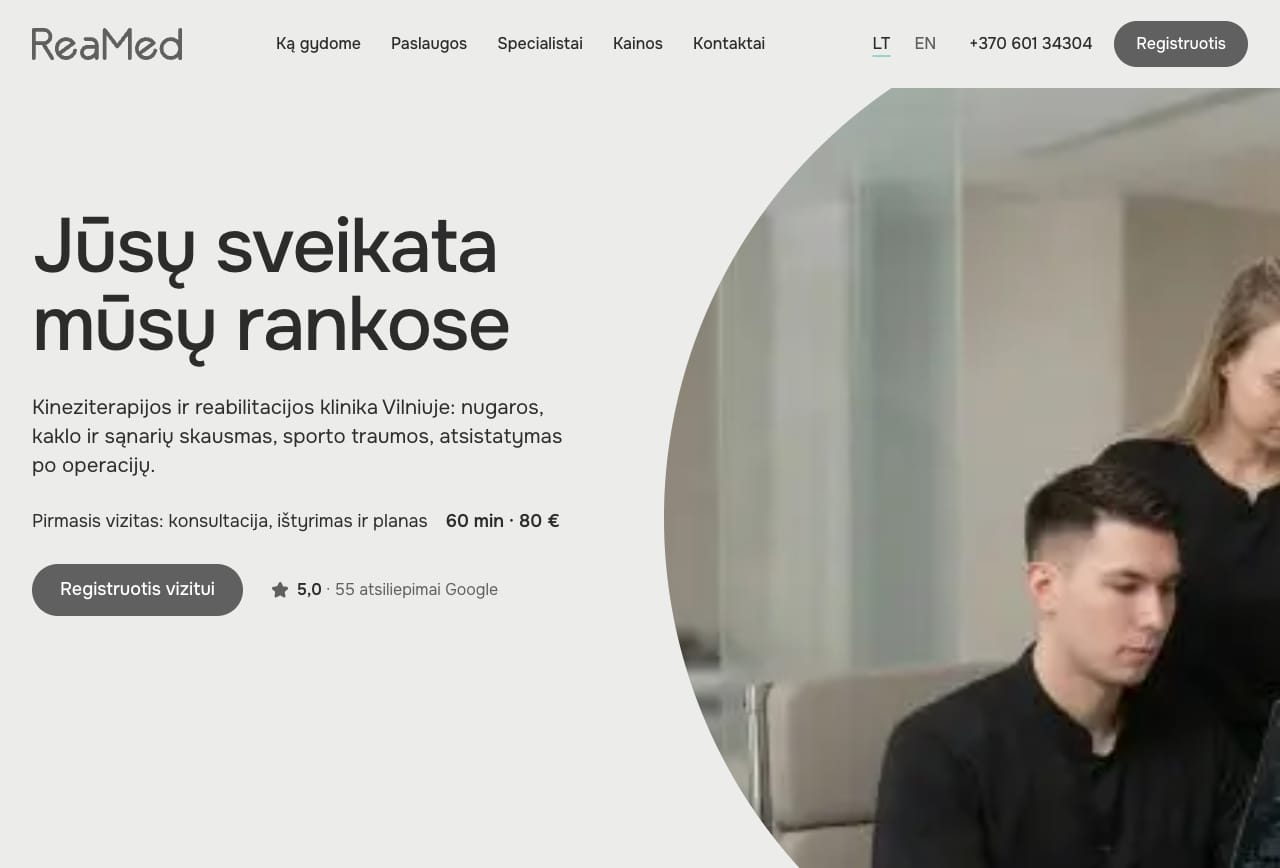
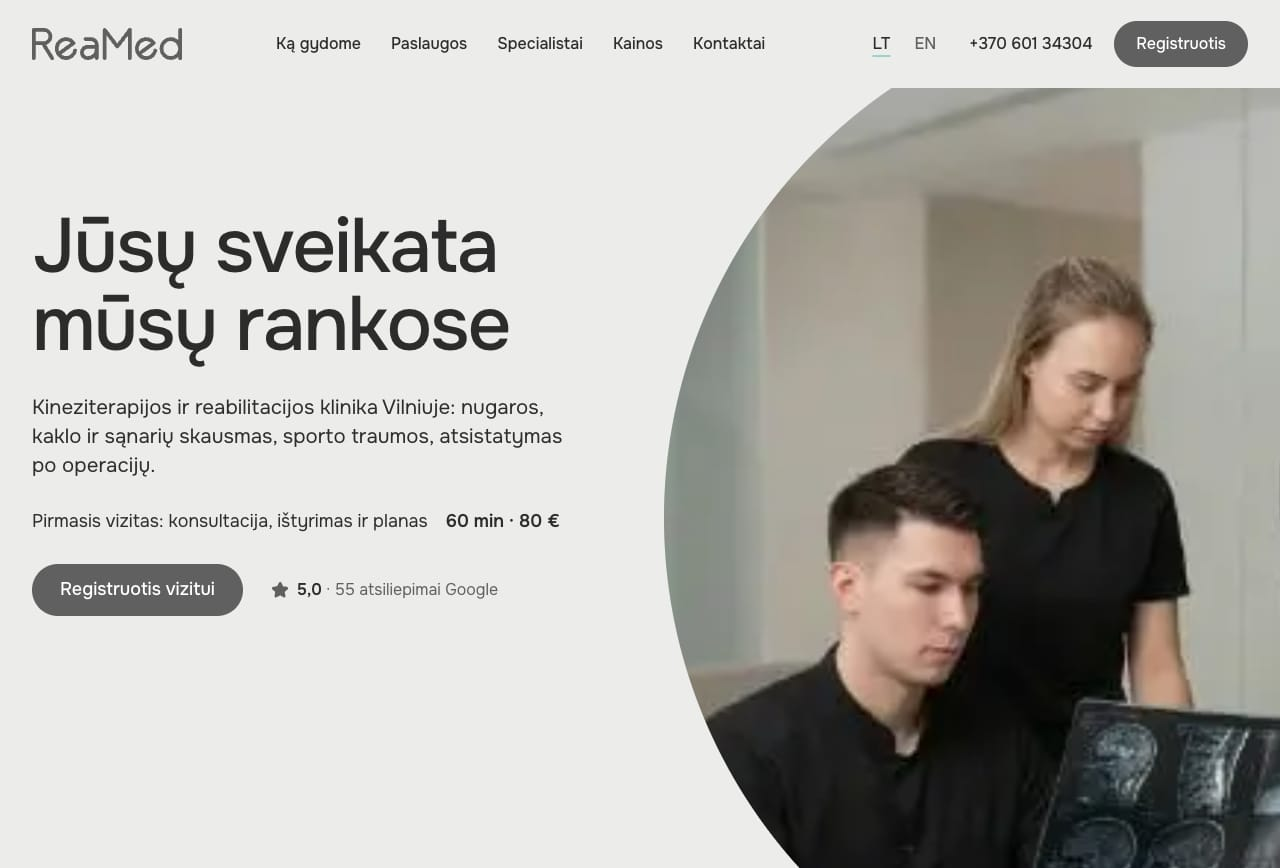
Hero: move the photo frame right on desktop so the people stay in view
Only the left part of the circle is visible on desktop now, and at 63%
it showed mostly wall at 1024px. Desktop uses 73%; phone keeps 63%.

Changed region(s): [[0.5312, 0.0933, 1.0, 1.0], [0.7188, 0.0933, 0.8438, 0.1555], [0.6562, 0.1555, 0.6875, 0.1866]]

diff --git a/src/components/sections/HeroSection.tsx b/src/components/sections/HeroSection.tsx
@@ -41,7 +41,8 @@ export default function HeroSection() {
         {/* Phone: full-bleed circle cut by the section's bottom edge.
             Desktop: left edge at the container middle + 24px; at least 1040px
             (taller than the 780px screen) and always wider than what is left
-            of the viewport, so the right edge cuts it. */}
+            of the viewport, so the right edge cuts it. Only its left part is
+            visible there, so the frame moves right (73%) to keep the people in view. */}
         <div className="relative mt-12 -ml-[10vw] -mb-[42vw] size-[120vw] rounded-full overflow-hidden bg-graphite/15 desk:absolute desk:m-0 desk:left-[calc(50%+24px)] desk:-top-[90px] desk:size-[max(1040px,calc(50vw+120px))]">
           <Image
             src="/photos/clinic.jpg"
@@ -49,7 +50,7 @@ export default function HeroSection() {
             fill
             priority
             sizes="(min-width: 821px) max(1040px, calc(50vw + 120px)), 120vw"
-            className="object-cover object-[63%_50%]"
+            className="object-cover object-[63%_50%] desk:object-[73%_50%]"
           />
         </div>
       </div>
